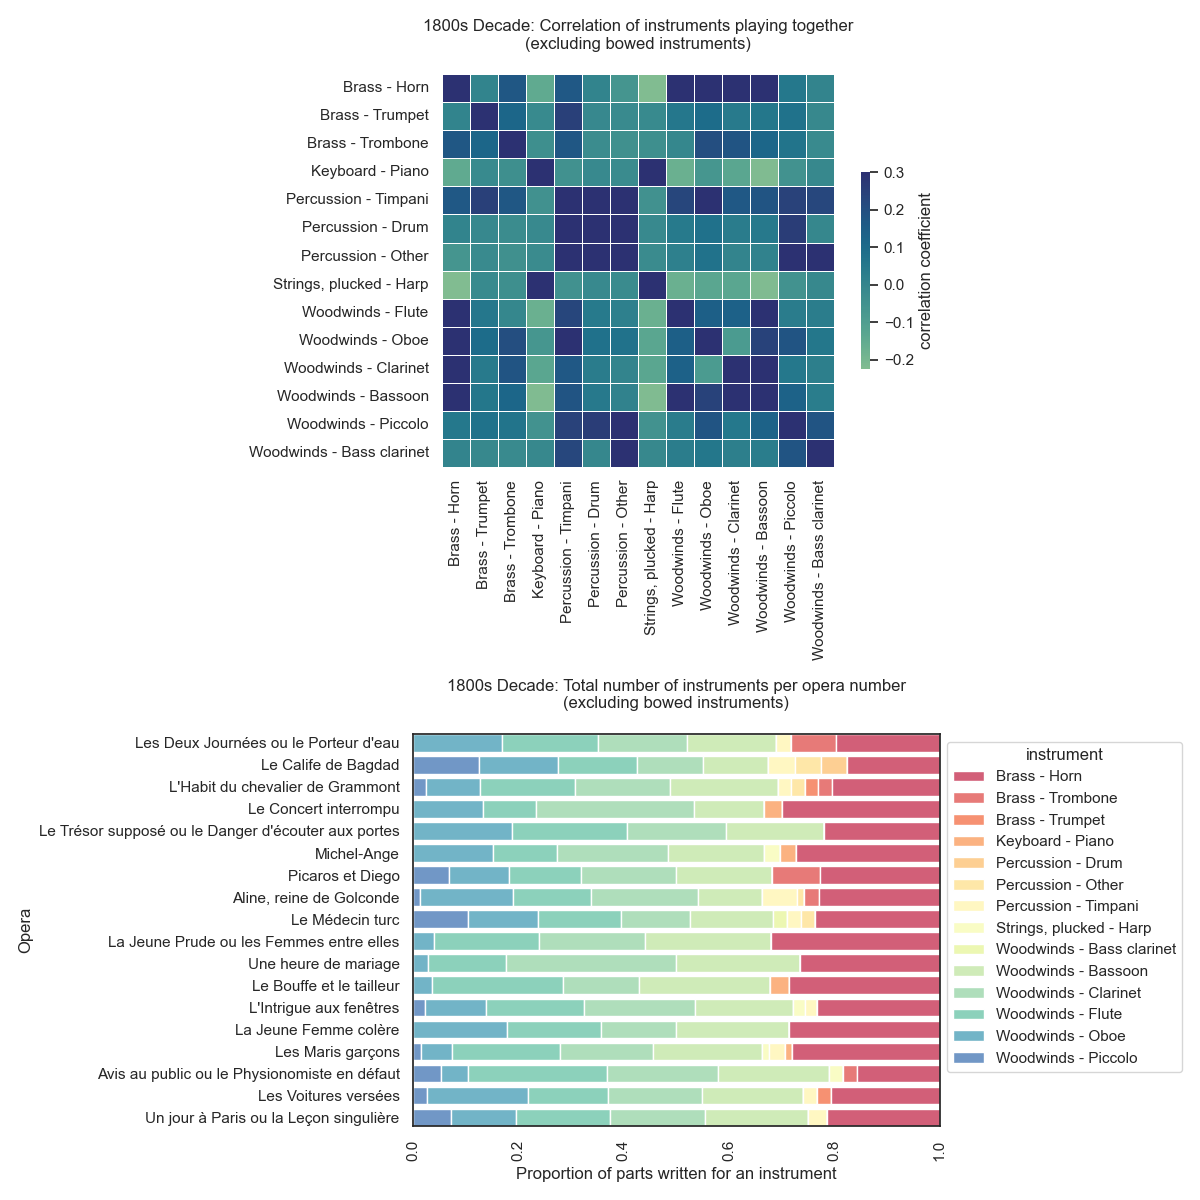
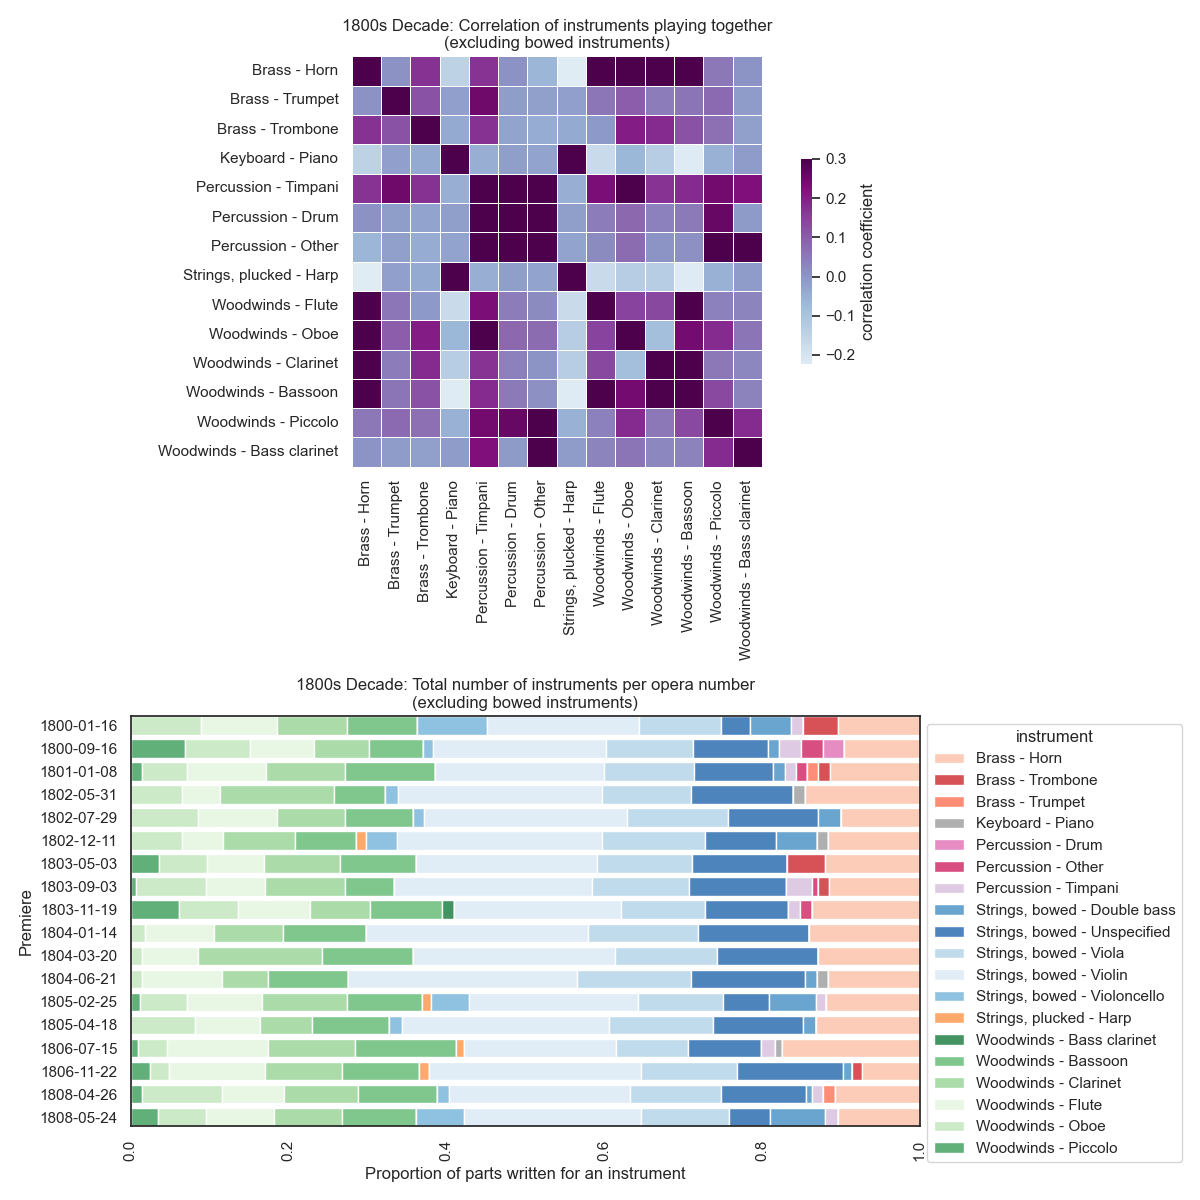
modular

diff --git a/doc-db/src/make_matrix.py b/doc-db/src/make_matrix.py
@@ -6,7 +6,6 @@ import seaborn as sn
 import pandas as pd
 import click
 import matplotlib.pyplot as plt
-from collections import Counter
 
 
 NS = {"mei": "http://www.music-encoding.org/ns/mei"}
@@ -91,9 +90,104 @@ def parse_tree(fp: Path) -> dict:
     return data
 
 
+def list_instrumentation_by_work(data: dict) -> list:
+    all_instrumentation = []
+    for opera in data.values():
+        i = []
+        for work in opera["works"]:
+            work_instrumentation = {
+                k: v for k, v in work.items() if not k.startswith("Strings, bowed")
+            }
+            i.append(work_instrumentation)
+        all_instrumentation.extend(i)
+    return all_instrumentation
+
+
+def list_part_with_metadata(data) -> list:
+    instrument_parts = []
+    for metadata in data.values():
+        title = metadata["title"]
+        year = metadata["year"]
+        for w in metadata["works"]:
+            for inst, count in w.items():
+                if count > 0:
+                    for i in range(count):
+                        opera_data = {
+                            "title": title,
+                            "year": year,
+                            "instrument": inst,
+                        }
+                        instrument_parts.append(opera_data)
+    instrument_parts = sorted(instrument_parts, key=lambda d: d["year"])
+    instrument_parts = sorted(instrument_parts, key=lambda d: d["instrument"])
+    return instrument_parts
+
+
+def plot_heatmap(df: pd.DataFrame, ax, title_string: str):
+    color_palette = sn.color_palette("BuPu", as_cmap=True)
+    corr = df.corr(numeric_only=True)
+    hm = sn.heatmap(
+        ax=ax,
+        data=corr,
+        cmap=color_palette,
+        vmax=0.3,
+        center=0,
+        square=True,
+        linewidths=0.5,
+        cbar_kws={"shrink": 0.5, "label": "correlation coefficient"},
+    ).set(title=title_string)
+    return hm
+
+
+def make_palette_by_instrument_group():
+    def build_label_hex_pairs(prefix: str, color: str) -> dict:
+        labels = [v for k, v in MARCMUSPERF.items() if k.startswith(prefix)]
+        hex_list = sn.color_palette(color, len(labels)).as_hex()
+        return {k: v for k, v in zip(labels, hex_list)}
+
+    # Select labels from Color Brewer library
+    brass_kw = build_label_hex_pairs(prefix="b", color="Reds")
+    keys_kw = build_label_hex_pairs(prefix="k", color="Greys")
+    percussion_kw = build_label_hex_pairs(prefix="p", color="PuRd")
+    bowed_kw = build_label_hex_pairs(prefix="s", color="Blues")
+    plucked_kw = build_label_hex_pairs(prefix="t", color="Oranges")
+    woodwinds_kw = build_label_hex_pairs(prefix="w", color="Greens")
+    voices_kw = build_label_hex_pairs(prefix="v", color="YlOrBr")
+
+    kw = brass_kw | keys_kw | percussion_kw | bowed_kw | plucked_kw | woodwinds_kw
+    return kw
+
+
+def plot_barchart(df: pd.DataFrame, ax, title_string: str):
+    color_palette = make_palette_by_instrument_group()
+    plot = sn.histplot(
+        df,
+        ax=ax,
+        y="year",
+        hue="instrument",
+        multiple="fill",
+        stat="proportion",
+        discrete=True,
+        shrink=0.8,
+        palette=color_palette,
+    )
+    sn.move_legend(ax, "upper left", bbox_to_anchor=(1, 1))
+    ax.set(
+        ylabel="Premiere",
+        xlabel="Proportion of parts written for an instrument",
+        title=title_string,
+    )
+    return plot
+
+
 @click.command()
-@click.option("--decade", "-y", required=True)
-@click.option("--directory", "-d", required=True)
+@click.option("--decade", "-y", required=True, help="First 3 digits of the decade")
+@click.option(
+    "--directory",
+    "-d",
+    required=True,
+    help="Path to the directory containing MEI-XML files",
+)
 def main(decade, directory):
     decade_prefix = decade[:3]
     decade = f"{decade_prefix}0s"
@@ -104,80 +198,24 @@ def main(decade, directory):
         opera = parse_tree(f)
         data.update(opera)
 
-    # plotting the heatmap
-    all_instrumentation = []
-    for opera in data.values():
-        i = []
-        for work in opera["works"]:
-            work_instrumentation = {
-                k: v for k, v in work.items() if not k.startswith("Strings, bowed")
-            }
-            i.append(work_instrumentation)
-        all_instrumentation.extend(i)
-    hmp_df = pd.DataFrame(all_instrumentation)
-    corr = hmp_df.corr(numeric_only=True)
-    title_string = f"""{decade} Decade: Correlation of instruments playing together
-(excluding bowed instruments)
-"""
+    # Setting up the plot
     sn.set_theme(style="white", palette="pastel")
     fig, (ax1, ax2) = plt.subplots(ncols=1, nrows=2, figsize=(12, 12))
-    hm = sn.heatmap(
-        ax=ax1,
-        data=corr,
-        cmap="crest",
-        vmax=0.3,
-        center=0,
-        square=True,
-        linewidths=0.5,
-        cbar_kws={"shrink": 0.5, "label": "correlation coefficient"},
-    ).set(title=title_string)
 
-    # Plotting the bar plot
-    instrument_parts = []
-    for metadata in data.values():
-        title = metadata["title"]
-        year = metadata["year"]
-        for w in metadata["works"]:
-            instruments = [
-                (inst, value)
-                for inst, value in w.items()
-                if not inst.startswith("Strings, bowed")
-            ]
-            for inst, count in instruments:
-                if count > 0:
-                    for i in range(count):
-                        opera_data = {
-                            "title": title,
-                            "year": year,
-                            "instrument": inst,
-                        }
-                        instrument_parts.append(opera_data)
+    # Plotting the heatmap
+    work_instrumentation = list_instrumentation_by_work(data)
+    hmp_df = pd.DataFrame(work_instrumentation)
+    title_string = f"{decade} Decade: Correlation of instruments playing together\n(excluding bowed instruments)"
+    plot_heatmap(df=hmp_df, ax=ax1, title_string=title_string)
 
-    df_rows = sorted(instrument_parts, key=lambda d: d["year"])
-    df_rows = sorted(df_rows, key=lambda d: d["instrument"])
-    bar_df = pd.DataFrame(df_rows)
-    title_string = f"""{decade} Decade: Total number of instruments per opera number
-(excluding bowed instruments)
-"""
-    sn.histplot(
-        bar_df,
-        ax=ax2,
-        y="title",
-        hue="instrument",
-        multiple="fill",
-        stat="proportion",
-        discrete=True,
-        shrink=0.8,
-        palette="Spectral",
-    )
-    sn.move_legend(ax2, "upper left", bbox_to_anchor=(1, 1))
+    # Plotting bar chart
+    parts = list_part_with_metadata(data=data)
+    bar_df = pd.DataFrame(parts)
+    title_string = f"{decade} Decade: Total number of instruments per opera number\n(excluding bowed instruments)"
+    plot_barchart(df=bar_df, ax=ax2, title_string=title_string)
     plt.xticks(rotation=90)
-    ax2.set(
-        ylabel="Opera",
-        xlabel="Proportion of parts written for an instrument",
-        title=title_string,
-    )
 
+    # Save figure
     of = DIR.joinpath(f"{decade}.png")
     fig.tight_layout()
     fig.savefig(of)
